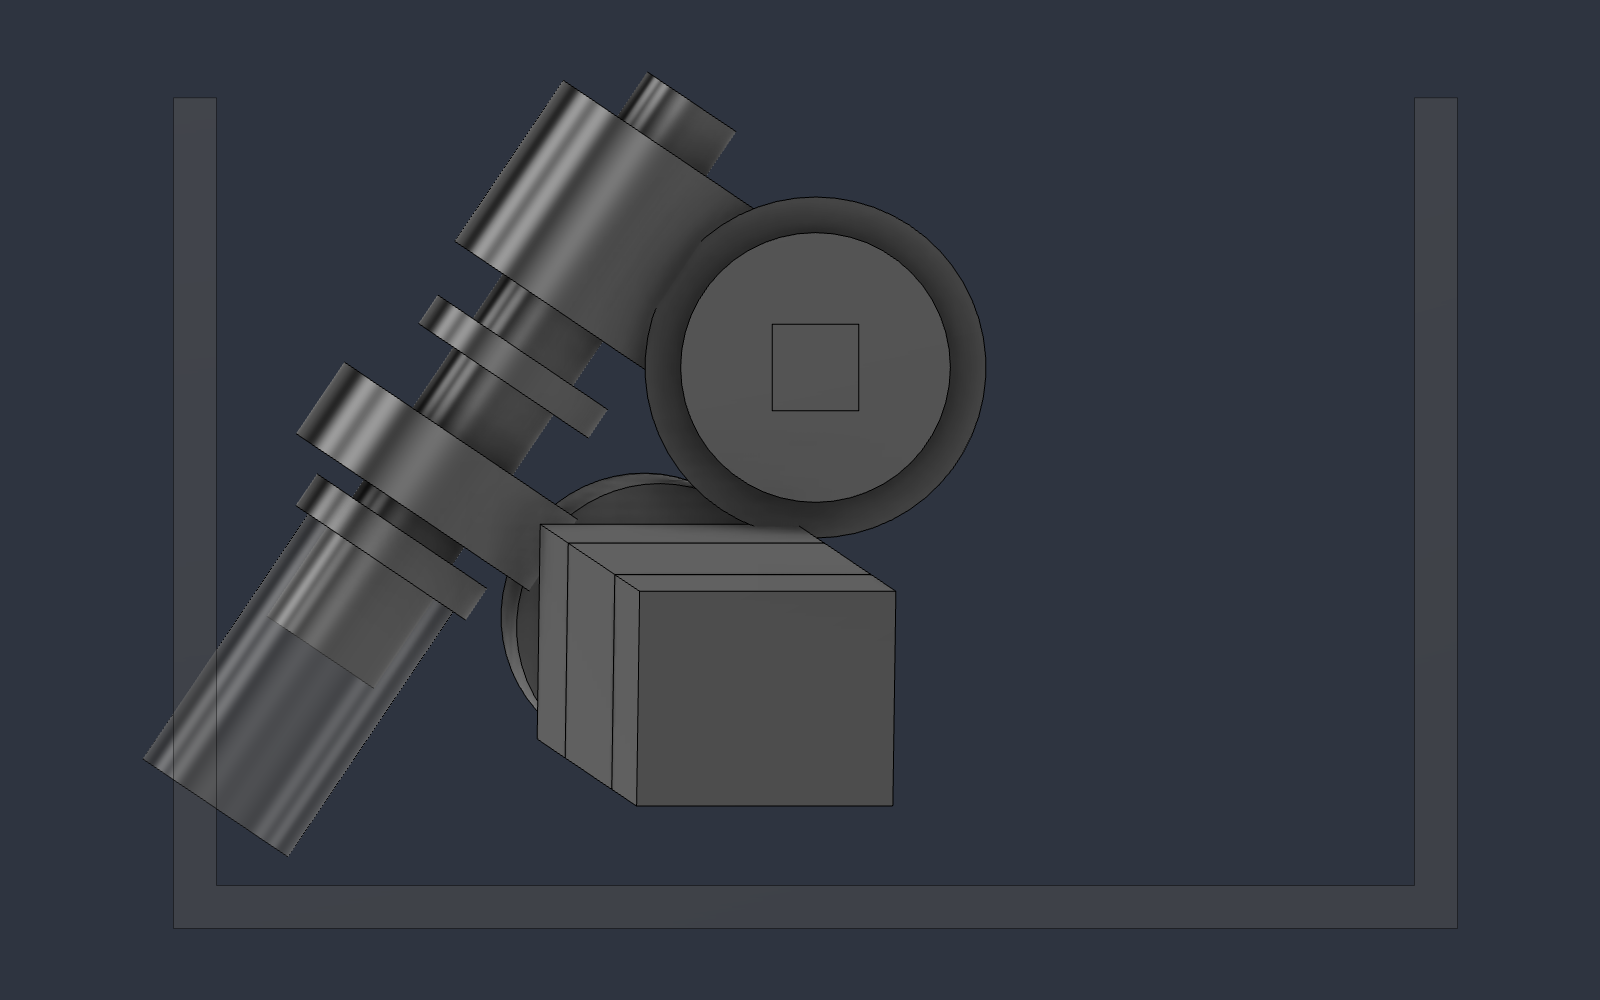
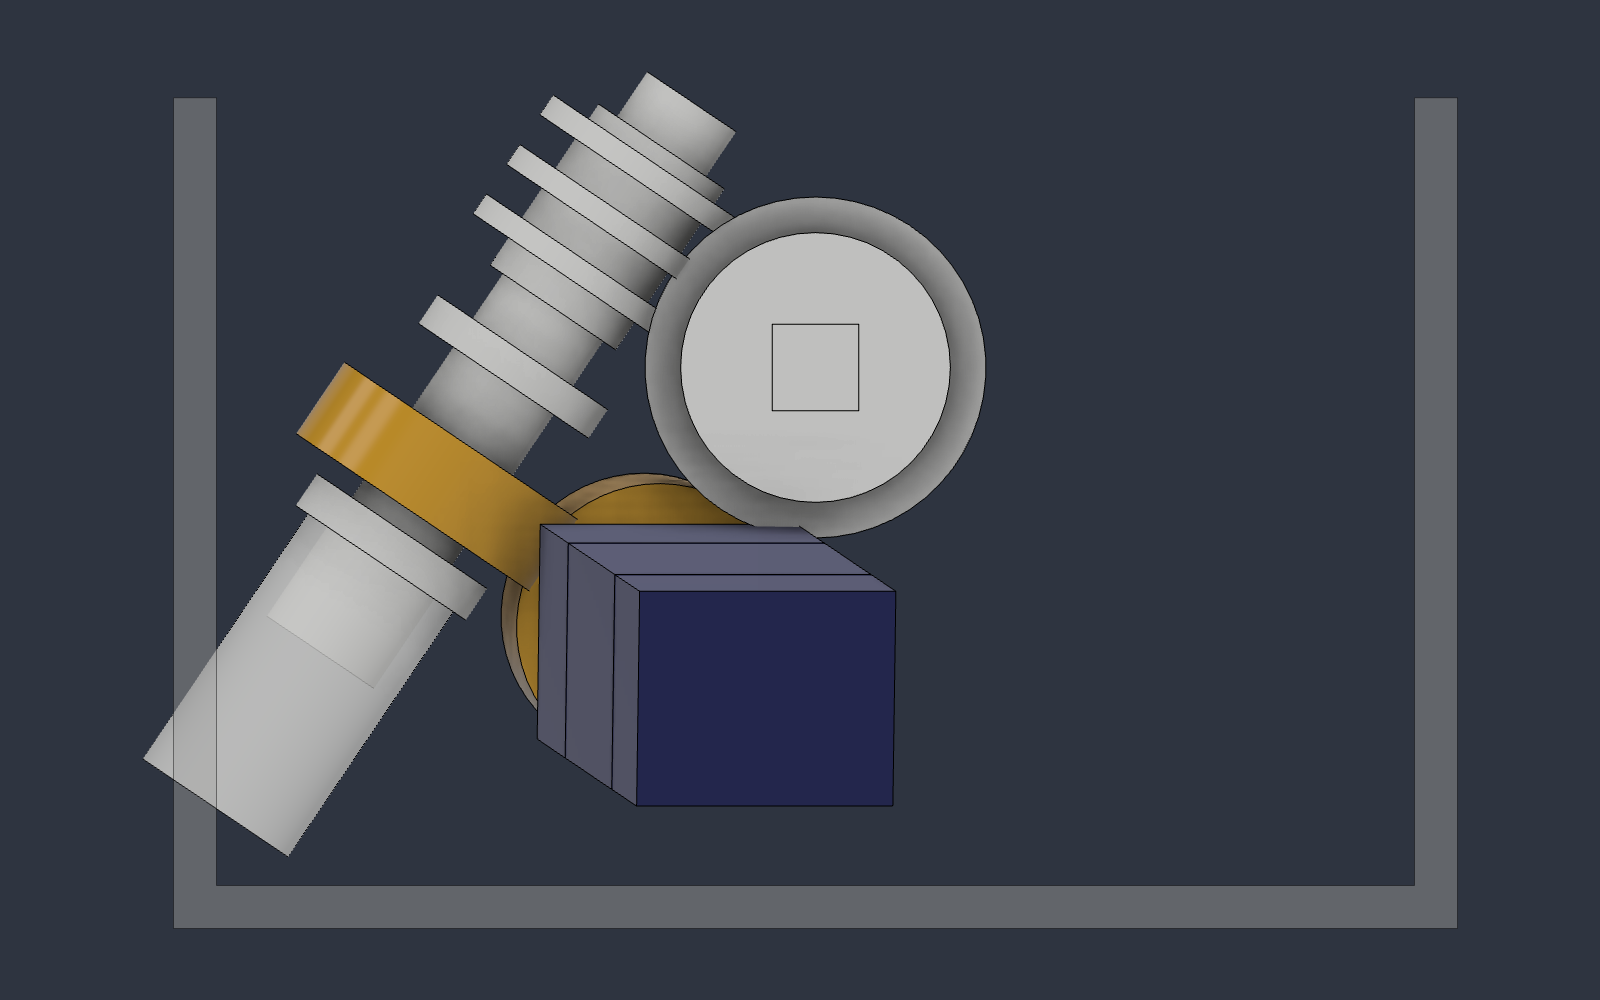
TiltLayout: color-code factory vs new parts, draw worm thread crests

Changed region(s): [[0.0938, 0.062, 0.9375, 0.93], [0.375, 0.589, 0.5625, 0.806]]

diff --git a/hardware/mechanical/fusion/TiltLayout/TiltLayout.py b/hardware/mechanical/fusion/TiltLayout/TiltLayout.py
@@ -100,6 +100,20 @@ class Builder:
         self.design = design
         self.root = design.rootComponent
         self.tbm = adsk.fusion.TemporaryBRepManager.get()
+        app = adsk.core.Application.get()
+        libs = [app.materialLibraries.item(i) for i in range(app.materialLibraries.count)]
+        self.lib = next((l for l in libs if l.name == 'Fusion Appearance Library'), None)
+
+    def appearance(self, name):
+        if not name or self.lib is None:
+            return None
+        a = self.design.appearances.itemByName(name)
+        if a is None:
+            src = self.lib.appearances.itemByName(name)
+            if src is None:
+                return None
+            a = self.design.appearances.addByCopy(src, name)
+        return a
 
     def cyl(self, p1, r1, p2, r2=None):
         return self.tbm.createCylinderOrCone(pt(p1), r1 / 10.0, pt(p2), (r1 if r2 is None else r2) / 10.0)
@@ -115,7 +129,7 @@ class Builder:
             self.tbm.booleanOperation(target, b, adsk.fusion.BooleanTypes.UnionBooleanType)
         return target
 
-    def component(self, name, bodies, opacity=1.0):
+    def component(self, name, bodies, opacity=1.0, look=None):
         # Assemblies get one component per group. Single-component "Part" documents can't hold more
         # components, so there the bodies go into the root, prefixed with the group name.
         try:
@@ -133,6 +147,9 @@ class Builder:
         for body_name, body in bodies:
             b = comp.bRepBodies.add(body, base)
             b.name = body_prefix + body_name
+            a = self.appearance(look)
+            if a is not None:
+                b.appearance = a
             try:
                 b.opacity = opacity
             except Exception:
@@ -191,7 +208,8 @@ def build(design):
     ])
     endcap = B.box((x0 - t / 2, 0, h / 2 - t / 2), X, Y, t, w + 2 * t, h + t)
     frame = B.box((xm, 0, h + P['tl_frame_gap'] + 0.5), X, Y, L, w + 2 * t, 1.0)
-    B.component('Headrail', [('Rail', rail), ('End cap', endcap), ('Window frame limit', frame)], 0.25)
+    B.component('Headrail', [('Rail', rail), ('End cap', endcap), ('Window frame limit', frame)], 0.25,
+                'Plastic - Matte (Gray)')
 
     # --- Tilt rod + worm wheel ---
     rod_c = (0.0, 0.0, P['tl_rod_z'])
@@ -202,7 +220,8 @@ def build(design):
               add(rod_c, (P['tl_wheel_face'] / 2, 0, 0))),
         B.cyl(add(rod_c, (-hw, 0, 0)), P['tl_wheel_hub_d'] / 2, add(rod_c, (hw, 0, 0))),
     ])
-    B.component('Rod and worm wheel', [('Tilt rod', rod), ('Worm wheel (factory)', wheel)])
+    B.component('Rod and worm wheel', [('Tilt rod', rod), ('Worm wheel (factory)', wheel)], 1.0,
+                'Plastic - Matte (White)')
 
     # --- Worm (factory) ---
     a = math.radians(P['tl_worm_angle'])
@@ -218,8 +237,9 @@ def build(design):
     sections = []
     bounds = []
     s = -P['tl_worm_thread'] / 2 - P['tl_worm_pin_len']
+    thread_start = s + P['tl_worm_pin_len']
     for dia, length in ((P['tl_worm_pin_d'], P['tl_worm_pin_len']),
-                        (P['tl_worm_od'], P['tl_worm_thread']),
+                        (P['tl_worm_od'] - 4.5 * P['tl_module'], P['tl_worm_thread']),   # root cylinder
                         (P['tl_worm_shaft_d'], P['tl_worm_gap']),
                         (P['tl_flange_d'], P['tl_flange1_t']),
                         (P['tl_worm_shaft_d'], P['tl_flange_gap']),
@@ -229,14 +249,22 @@ def build(design):
         s += length
         bounds.append(s)
     flange1_end, flange2_start = bounds[3], bounds[4]
+    # thread crests drawn as rings at the axial pitch (visual only; a single-start helix in reality)
+    pitch = math.pi * P['tl_module']
+    crest_w = 0.4 * pitch
+    c = thread_start + pitch / 2
+    while c + crest_w / 2 <= thread_start + P['tl_worm_thread']:
+        sections.append(B.cyl(S(c - crest_w / 2), P['tl_worm_od'] / 2, S(c + crest_w / 2)))
+        c += pitch
     worm_end = s
     worm_top = S(-P['tl_worm_thread'] / 2 - P['tl_worm_pin_len'])
-    B.component('Worm (factory)', [('Worm', B.union(sections))])
+    B.component('Worm (factory)', [('Worm', B.union(sections))], 1.0, 'Plastic - Matte (White)')
 
     # --- Factory wand connector (reference) ---
     conn = B.cyl(S(worm_end - P['tl_conn_depth']), P['tl_conn_d'] / 2,
                  S(worm_end - P['tl_conn_depth'] + P['tl_conn_len']))
-    B.component('Wand connector (factory)', [('Connector + loop envelope', conn)], 0.5)
+    B.component('Wand connector (factory)', [('Connector + loop envelope', conn)], 0.6,
+                'Plastic - Translucent Matte (White)')
 
     # --- Crossed helical drive + N20 ---
     gs = P['tl_gear_s']
@@ -262,9 +290,10 @@ def build(design):
     mot = seg(mot_start, P['tl_n20_mot_len'])
     enc_start = add(mot_start, mul(u, P['tl_n20_mot_len']))
     enc = seg(enc_start, P['tl_n20_enc_len'])
-    B.component('Helical gear on worm (printed)', [('Helical gear envelope', gear)])
-    B.component('N20 + helical pinion', [('Pinion envelope', pinion), ('Shaft', shaft), ('Gearbox', gbx),
-                                         ('Motor', mot), ('Encoder', enc)])
+    B.component('NEW helical gear on worm', [('Helical gear envelope', gear)], 1.0, 'Plastic - Glossy (Yellow)')
+    B.component('NEW helical pinion', [('Pinion envelope', pinion)], 1.0, 'Plastic - Glossy (Yellow)')
+    B.component('N20 motor', [('Shaft', shaft), ('Gearbox', gbx), ('Motor', mot), ('Encoder', enc)], 1.0,
+                'Plastic - Glossy (Blue)')
 
     # --- Fit report: motor envelope corners vs the rail ---
     total = P['tl_n20_gbx_len'] + P['tl_n20_mot_len'] + P['tl_n20_enc_len']
